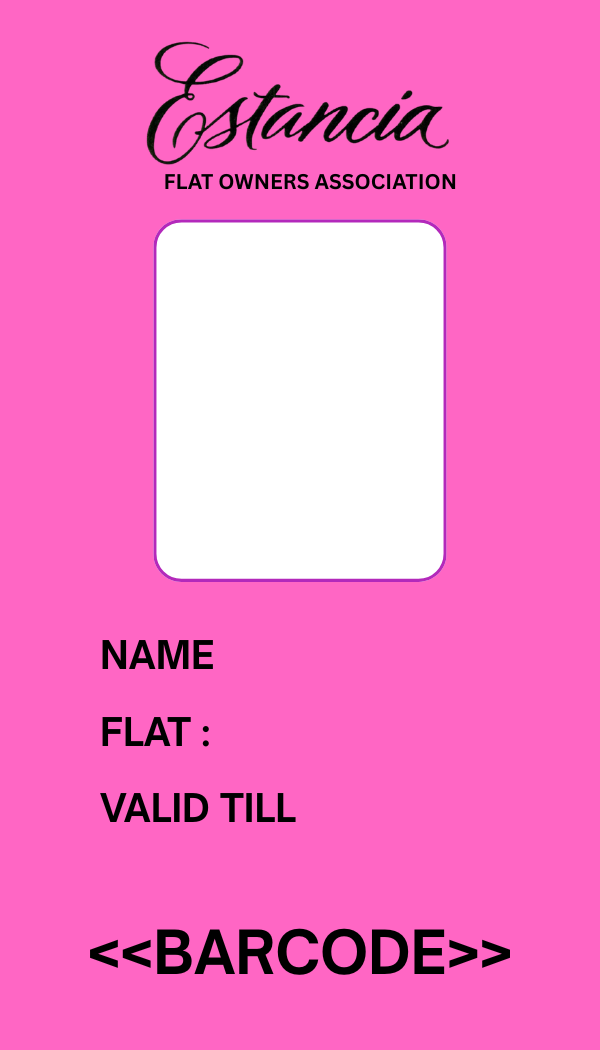
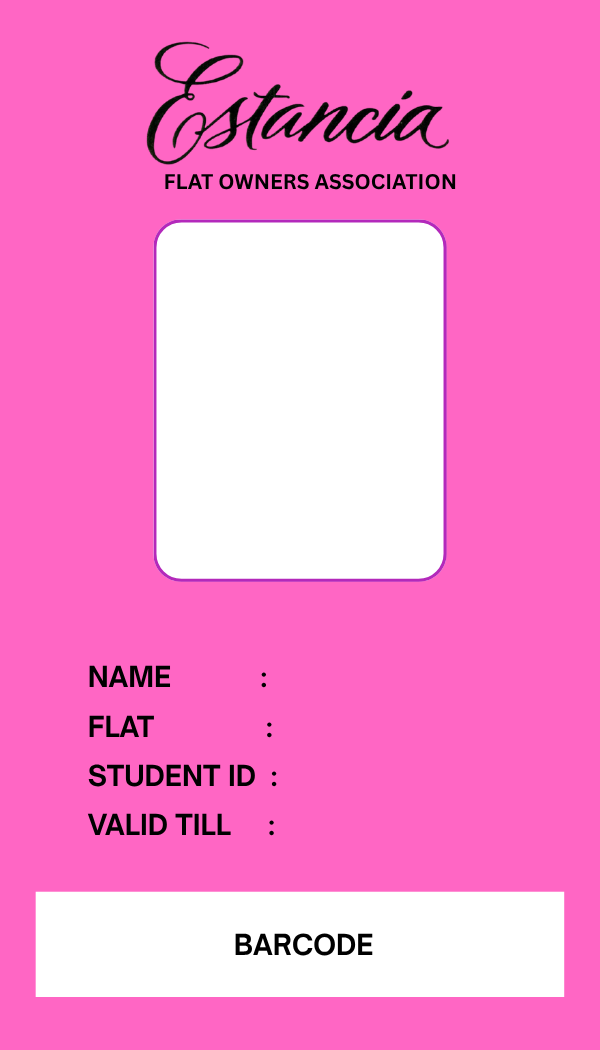
ID card: new front layout + STUDENT ID field + full-width barcode
Re-measure for the updated artwork: 4 colon-aligned labels (NAME, FLAT,
STUDENT ID, VALID TILL) and a large white barcode panel at the bottom.
Add the STUDENT ID (AssignedId) as a text field and enlarge the barcode to
fill the bottom panel. Photo box re-fitted to the new white box.

Changed region(s): [[0.06, 0.8229, 0.96, 0.9752], [0.15, 0.6095, 0.48, 0.7924]]

diff --git a/docs/admin.html b/docs/admin.html
@@ -2403,16 +2403,17 @@
     var ID_CARD_FRONT = {
       src: 'assets/idcard-front.png',
       W: 600, H: 1050,
-      photo: { x: 166, y: 232, w: 268, h: 336, r: 16 },   // inside the white photo box
+      photo: { x: 163, y: 229, w: 273, h: 342, r: 16 },   // inside the white photo box
       font: 'Arial, Helvetica, sans-serif',
       color: '#151515',
       fields: {
-        // value drawn to the right of each baked label, sharing its baseline
-        Name:      { x: 232, baseline: 668, size: 40, maxWidth: 328 },
-        HouseId:   { x: 226, baseline: 745, size: 40, maxWidth: 330 },
-        ValidTill: { x: 312, baseline: 821, size: 38, maxWidth: 245 }
+        // value drawn to the right of each baked label's colon, sharing its baseline
+        Name:      { x: 290, baseline: 686, size: 30, maxWidth: 275 },
+        HouseId:   { x: 290, baseline: 736, size: 30, maxWidth: 275 },
+        StudentId: { x: 290, baseline: 785, size: 30, maxWidth: 275 },
+        ValidTill: { x: 290, baseline: 834, size: 30, maxWidth: 275 }
       },
-      barcode: { x: 60, y: 908, w: 480, h: 84 }            // covers the <<BARCODE>> placeholder (centred)
+      barcode: { x: 36, y: 892, w: 527, h: 104 }            // the big white panel at the bottom
     };
 
     // Rounded-rect path (older Safari lacks ctx.roundRect).
@@ -2546,8 +2547,9 @@
         var validTill = validDate ? (MONTHS[validDate.getMonth()].slice(0, 3) + ' ' + validDate.getFullYear()) : validRaw;
         idDrawField(ctx, cfg, cfg.fields.Name, s.Name);
         idDrawField(ctx, cfg, cfg.fields.HouseId, s.HouseId);
+        idDrawField(ctx, cfg, cfg.fields.StudentId, s.AssignedId);
         idDrawField(ctx, cfg, cfg.fields.ValidTill, validTill);
-        // Barcode of the assigned Student ID.
+        // Barcode of the assigned Student ID, filling the big white panel.
         idDrawBarcode(ctx, s.AssignedId, cfg.barcode);
         downloadDataUrl(c.toDataURL('image/png'), getIdBase(s) + '-front.png');
         setStatus('ID card (front) downloaded.', true);
